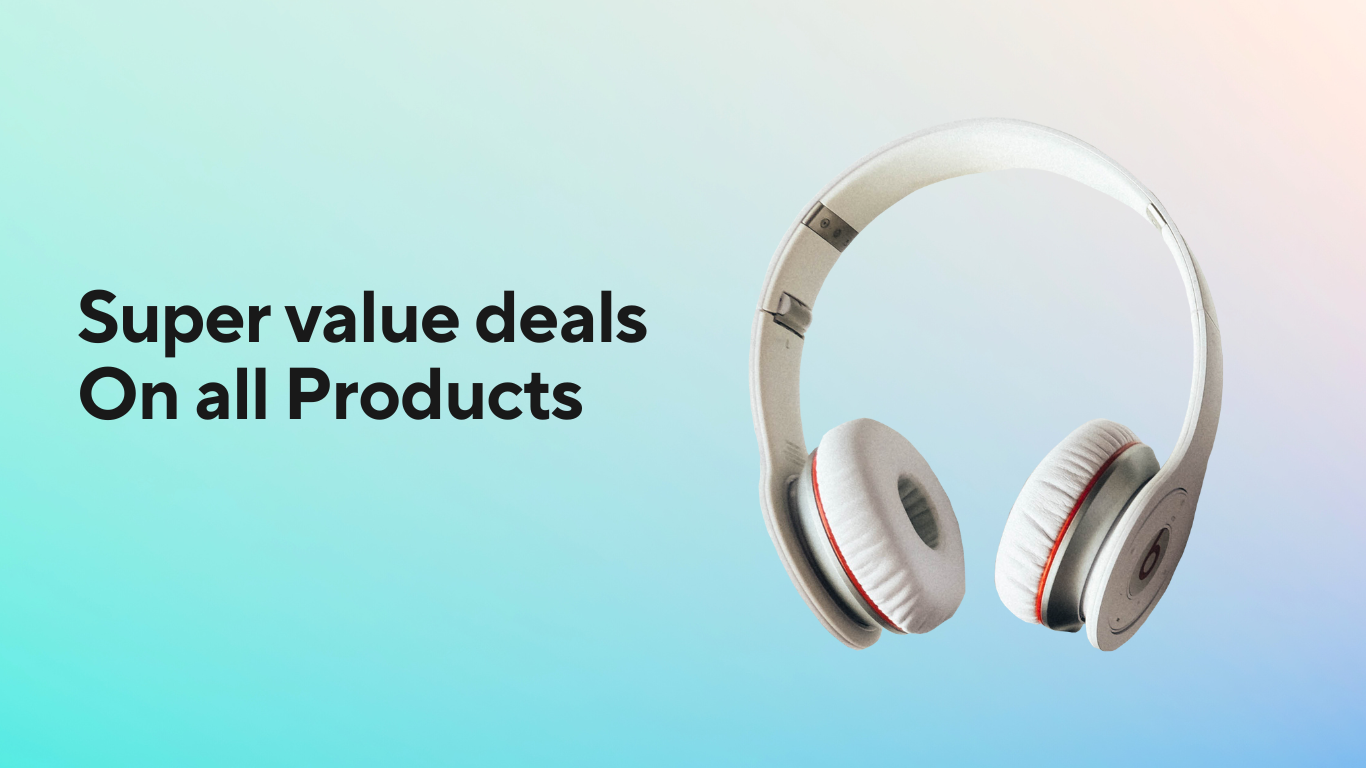
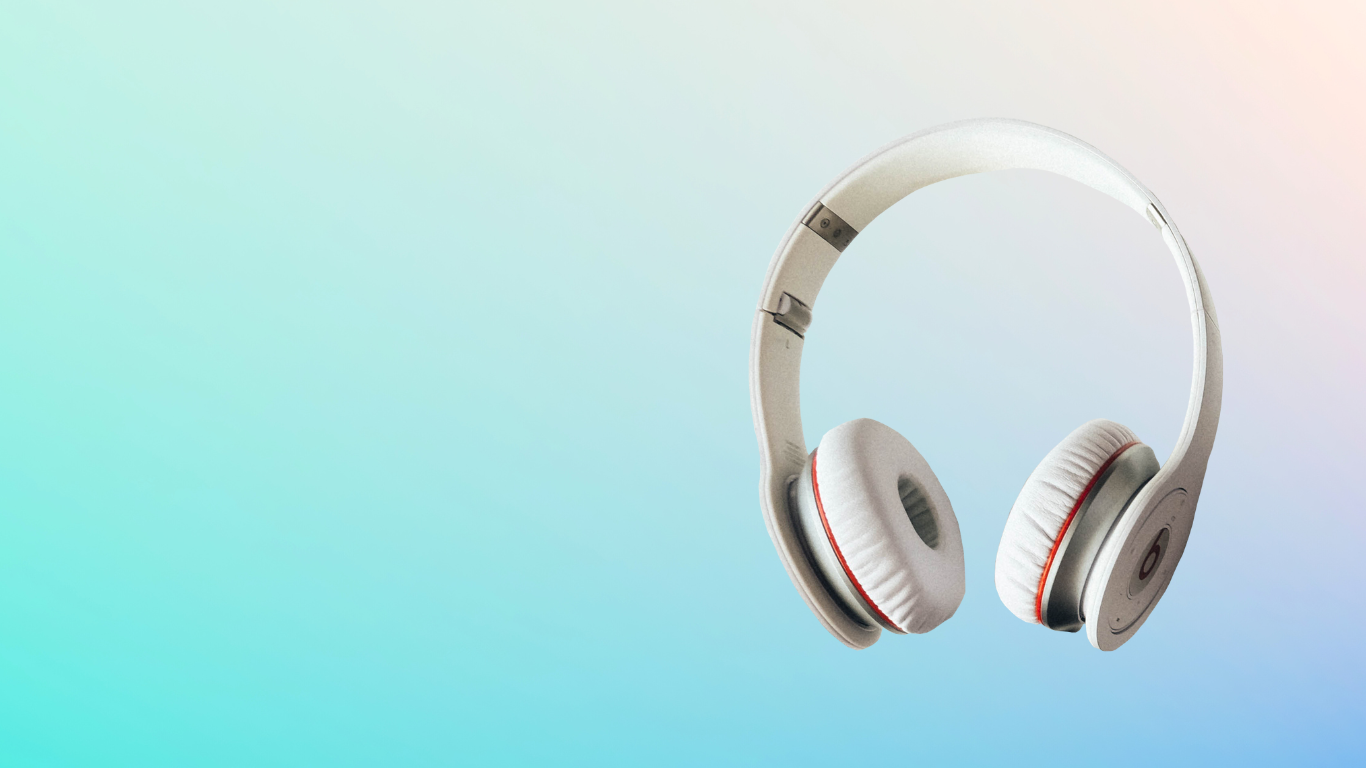
home section started

Changed region(s): [[0.0615, 0.375, 0.4919, 0.5625]]

diff --git a/index.html b/index.html
@@ -11,6 +11,7 @@
 </head>
 
 <body>
+    <!-- navbar section -->
     <section id="header">
         <div class="logo-container" class="logo">
             <a href="your-link-url">
@@ -31,6 +32,14 @@
                 <li><a href="cart.html"><i class="fas fa-shopping-cart"></i> </a></li>
             </ul>
         </div>
+    </section>
+
+    <section id="hore">
+        <h4>Trade-in-offer</h4>
+        <h2>Super value deals </h2>
+        <h1>On all products</h1>
+        <p>Save morewith coupons & up to 70% off!</p>
+        <button>Shop Now</button>
     </section>
 
 
